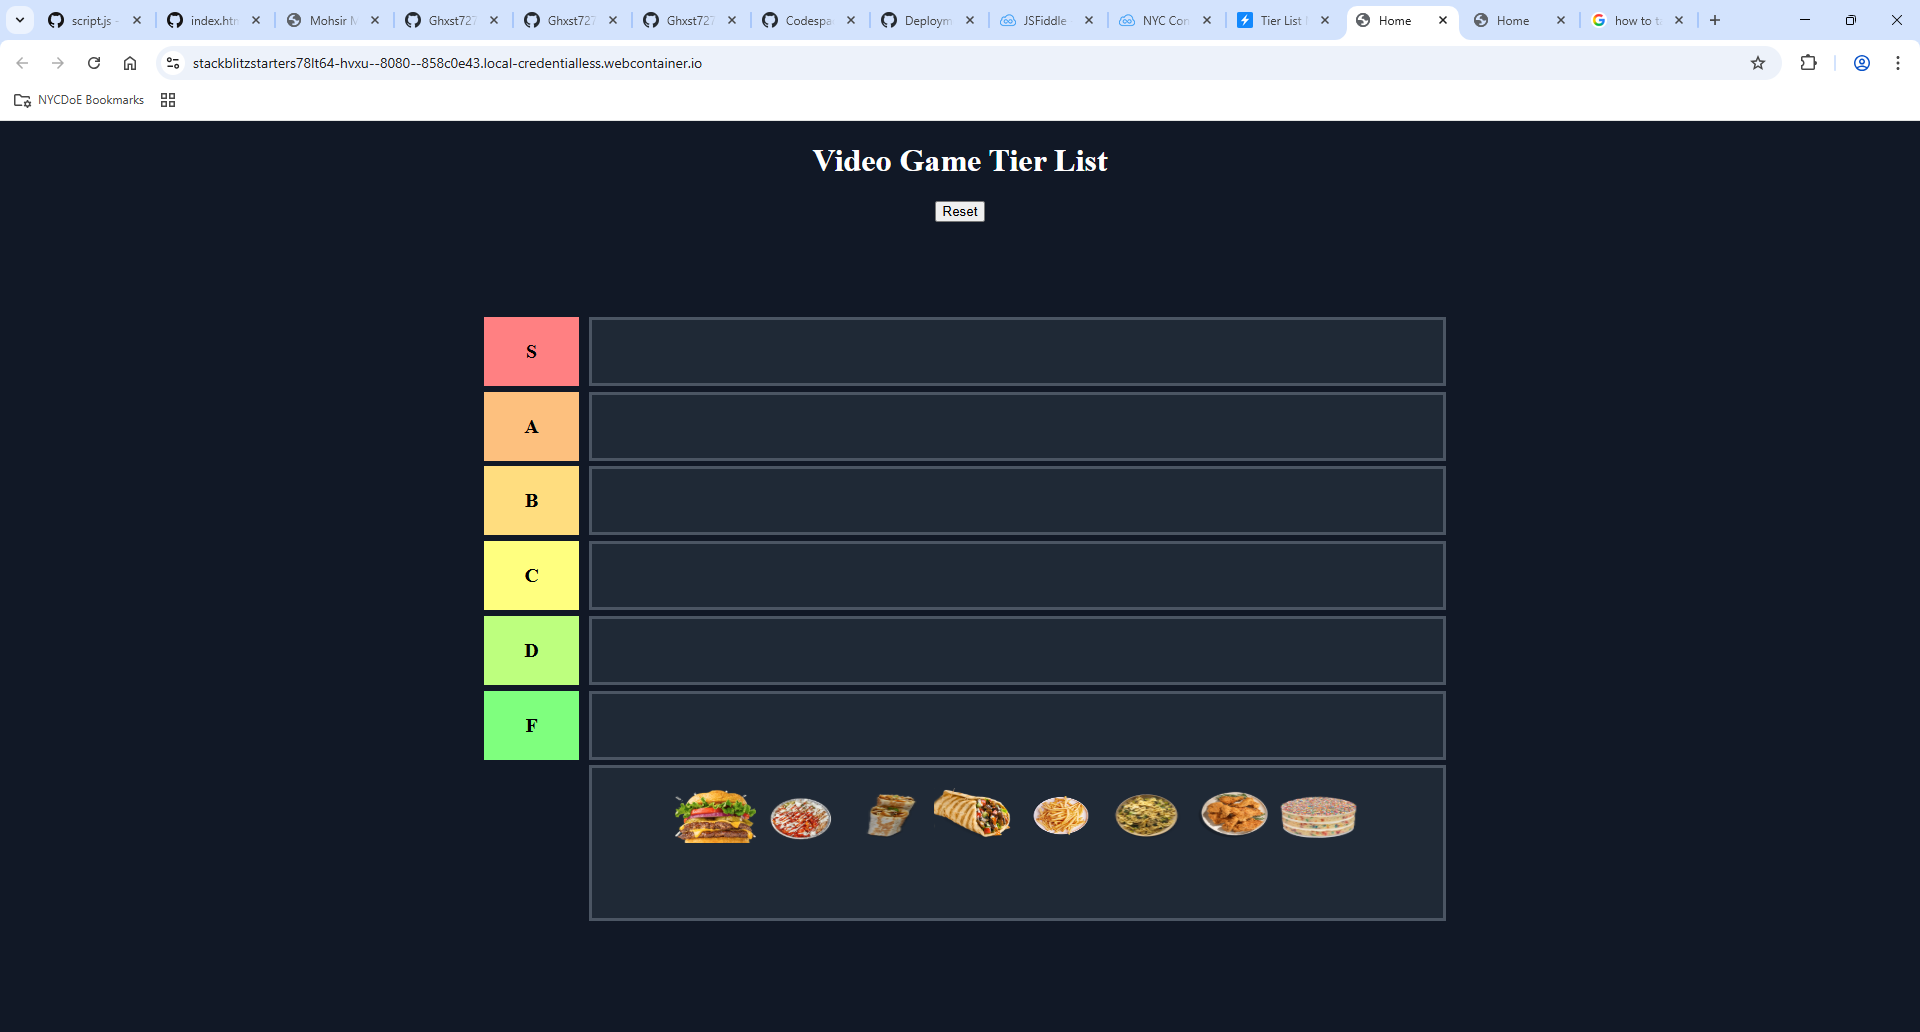
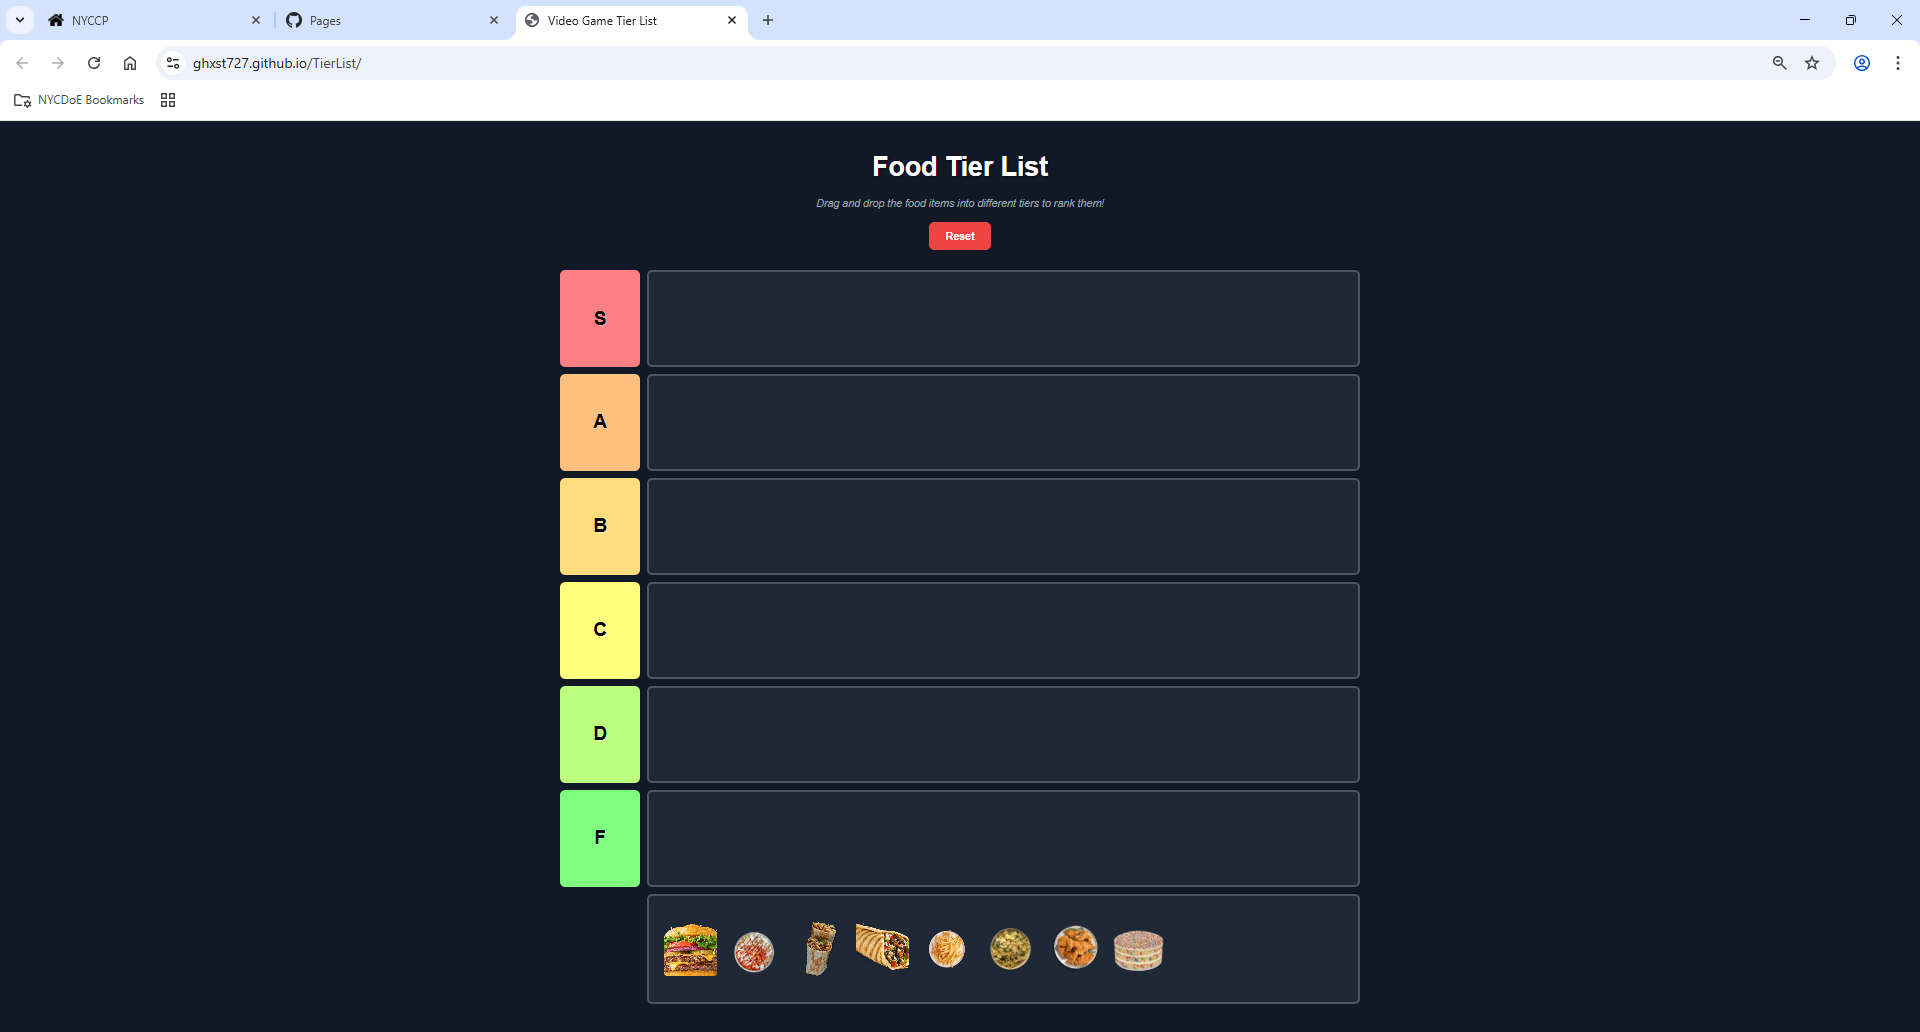
6/12/25

diff --git a/index.html b/index.html
@@ -147,7 +147,7 @@
         </section>
 
         <section class="content-section" id="projects">
-          <a href="https://ghxst727.github.io/">
+          <a href="https://ghxst727.github.io/SpocNoc/">
             <div class="project-item">
               <div class="project-image">
                 <img src="imgs/Spoc.png" alt="SpocNoc" />
@@ -170,7 +170,7 @@
             </div>
           </a>
 
-          <a href="https://ghxst727.github.io/">
+          <a href="https://ghxst727.github.io/NYC-Connections/">
             <div class="project-item">
               <div class="project-image">
                 <img src="imgs/NYC.png" alt="SpocNoc" />
@@ -194,7 +194,7 @@
             </div>
           </a>
 
-          <a href="https://ghxst727.github.io/">
+          <a href="https://ghxst727.github.io/TierList/">
             <div class="project-item">
               <div class="project-image">
                 <img src="imgs/Tier.png" alt="Tier List" />
